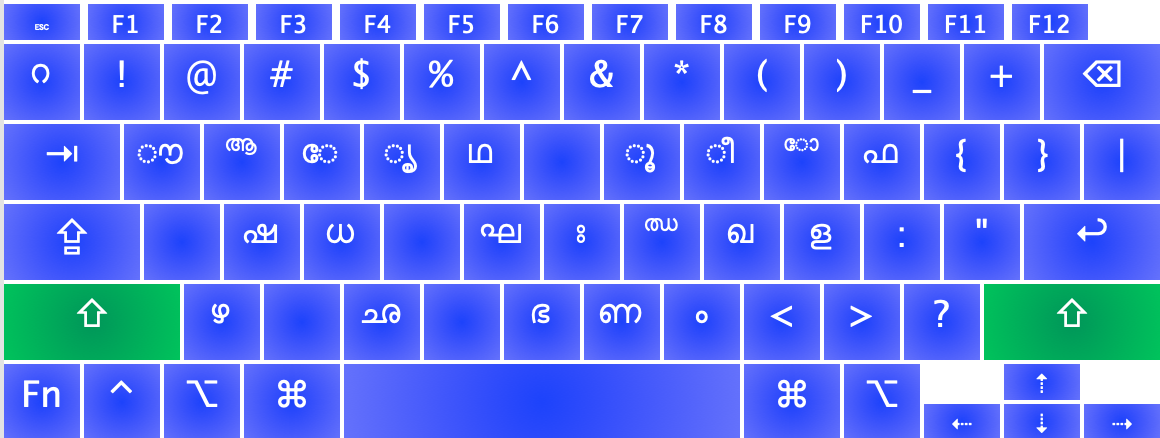
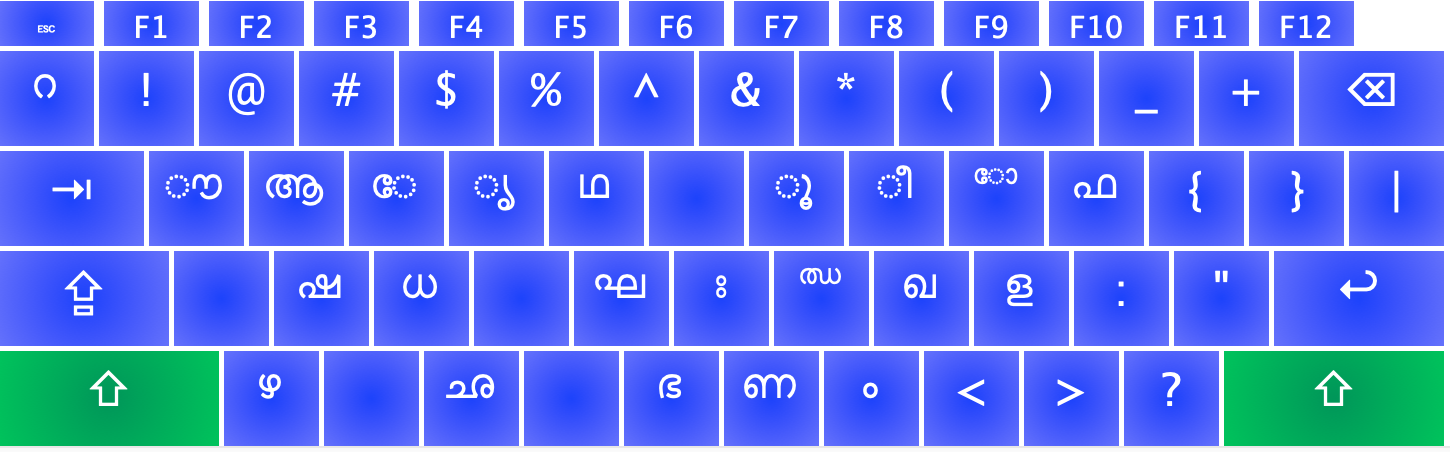
Unicode for ൃ is updated.

diff --git a/README.md b/README.md
@@ -1,10 +1,10 @@
-- [Malayalam Easy Keyboard for macOSX.](#orgcb512ad)
-  - [What is Malayalam Easy Keyboard](#org48ff422)
-  - [Installing Malayalam Easy Keyboard in macOSX](#org3bb31de)
-- [Malayalam Keyboard Mapping.](#org45e4469)
+- [Malayalam Easy Keyboard for macOSX.](#org060a817)
+  - [What is Malayalam Easy Keyboard](#org763ede7)
+  - [Installing Malayalam Easy Keyboard in macOSX](#orgb8cbfa8)
+- [Malayalam Keyboard Mapping.](#org369e522)
 
 
-<a id="orgcb512ad"></a>
+<a id="org060a817"></a>
 
 # Malayalam Easy Keyboard for macOSX.
 
@@ -18,7 +18,7 @@
 ഇൻസ്ക്രിപ്റ്റ് മലയാളം ടൈപ്പിങ് സങ്കേതം, ഇൻഡ്യാ ഗവണ്മെന്റ് നിശ്ചയിച്ച ഒരു സ്റ്റാൻഡാർഡ് പ്രകാരം ഉണ്ടാക്കിയതാണ്. 1986 ൽ നിലവിൽ വന്ന ഈ സ്റ്റാൻഡാർഡ് ആണ് പരമ്പരാഗതമായി ടൈപ്റൈറ്ററിലുമൊക്കെ ഉപയോഗിച്ച് വന്നത്. കമ്പ്യൂട്ടറുകൾ പ്രചാരത്തിലായതോടെ അവ കമ്പ്യൂട്ടറുകളിലേയ്ക്കും സ്വീകരിക്കപ്പെട്ടു. Windows 2000, തൊട്ടും മാക് ഓ.എസ്സിന്റെ എൽ കാപ്പിറ്റാൻ പതിപ്പു തൊട്ടും മലയാളം ഇൻഡിക് കീബോർഡുകൾ പ്രമുഖ ഓപ്പറേറ്റിങ് സിസ്റ്റങ്ങളിൽ സന്നിവേശിപ്പിച്ചു തുടങ്ങി. അതോടെ ഇൻസ്ക്രിപ്റ്റ് കീബോർഡുകൾക്ക് പ്രചുരപ്രചാരം ലഭിച്ചു തുടങ്ങി. ഇന്ന് iOS ലും Android ലും ഇൻസ്ക്രപ്റ്റ് കീബോർഡുകൾ പാക്കേജ് ചെയ്ത് വരുന്നുണ്ട്.
 
 
-<a id="org48ff422"></a>
+<a id="org763ede7"></a>
 
 ## What is Malayalam Easy Keyboard
 
@@ -30,7 +30,7 @@
 4.  CTRL കീ മോഡിഫൈയറായി ഉപയോഗിക്കുന്നില്ലാത്തതിനാൽ ഇമാക്സ് പോലുള്ള എഡിറ്ററുകളിലും ഈ
 
 
-<a id="org3bb31de"></a>
+<a id="orgb8cbfa8"></a>
 
 ## Installing Malayalam Easy Keyboard in macOSX
 
@@ -58,7 +58,7 @@
 ഇപ്പോൾ മെനുബാറിൽ മലയാളം ഇൻപുട് ലഭ്യമായിരിക്കും. മെനുബാർ ക്ലിക് ചെയ്ത് മലയാളം-ഈസി സെലെക്ട് ചെയ്ത് ടൈപ് ചെയ്ത് തുടങ്ങാം.
 
 
-<a id="org45e4469"></a>
+<a id="org369e522"></a>
 
 # Malayalam Keyboard Mapping.
 
